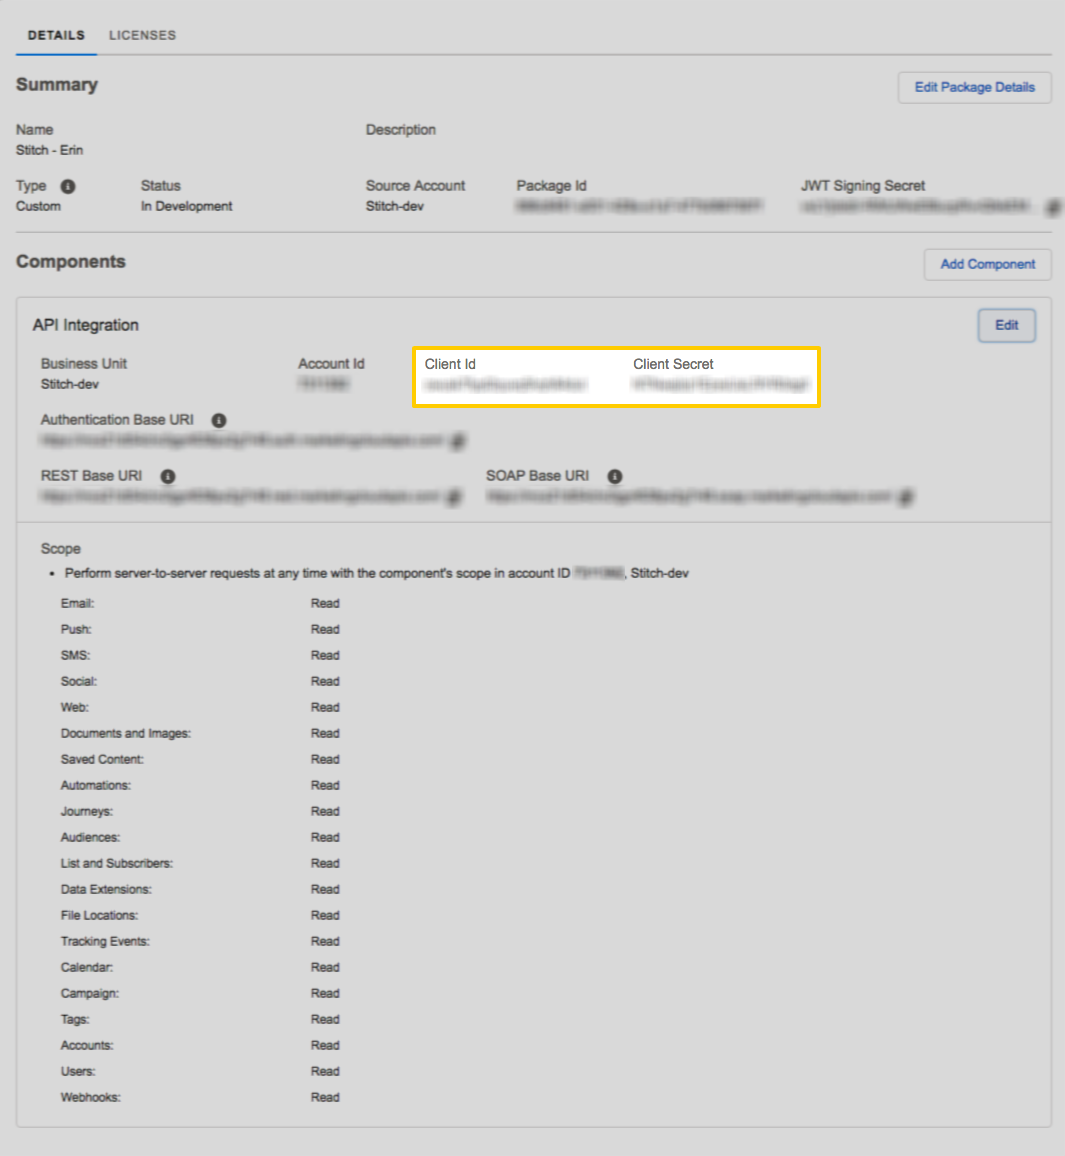
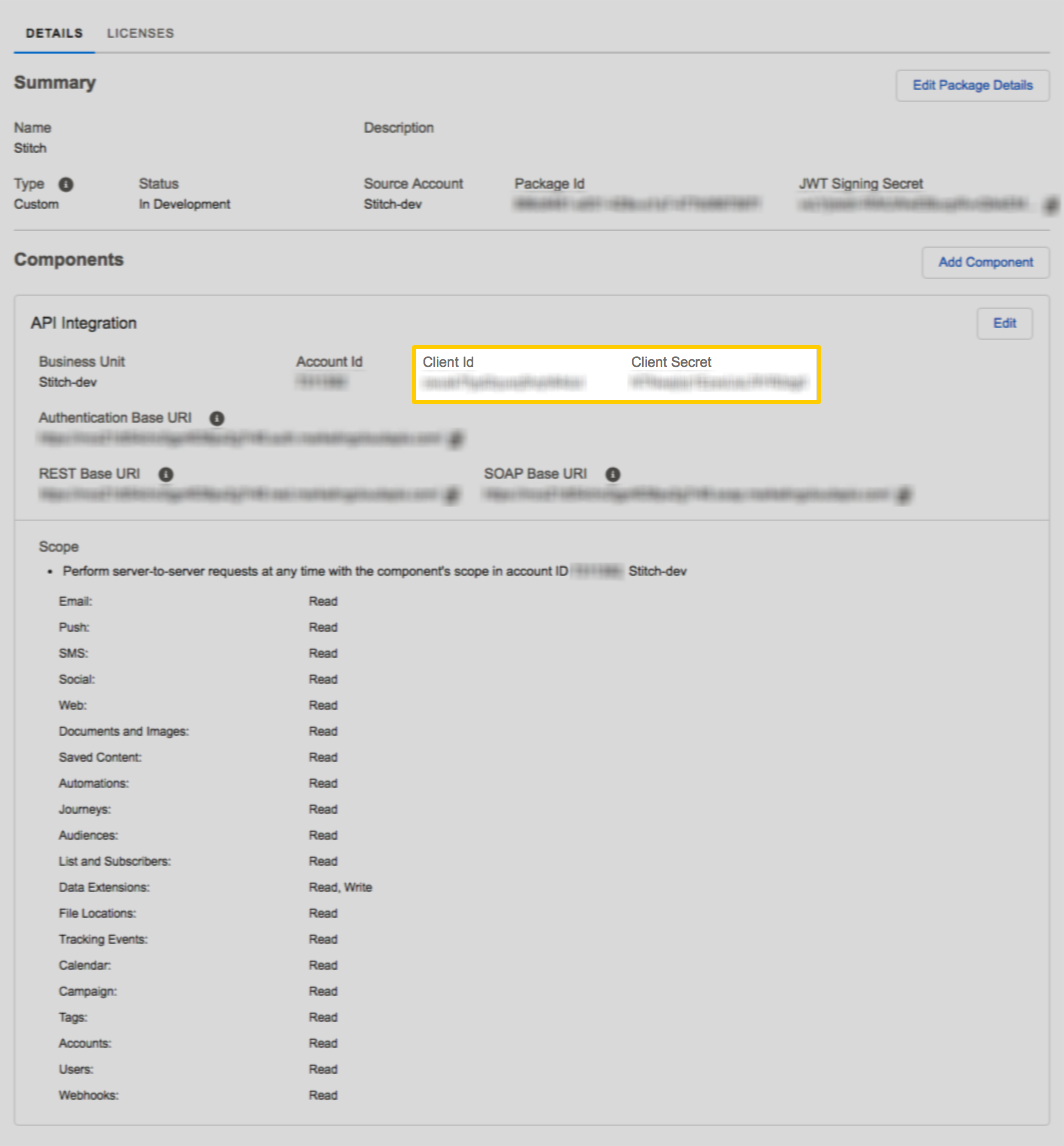
Update required permissions in setup

diff --git a/_saas-integrations/salesforce-marketing-cloud/v1/salesforce-marketing-cloud-v1.md b/_saas-integrations/salesforce-marketing-cloud/v1/salesforce-marketing-cloud-v1.md
@@ -81,7 +81,7 @@ permission-categories:
       - name: "List and Subscribers"
   - name: "Data"
     permissions:
-      - name: "Data Extensions"
+      - name: "Data Extensions (Read/Write)"
       - name: "File Locations"
       - name: "Tracking Events"
   - name: "Hub"
@@ -133,7 +133,7 @@ setup-steps:
           6. Click **Save**.
 
 # https://developer.salesforce.com/docs/atlas.en-us.mc-app-development.meta/mc-app-development/api-integration.htm
-      - title: "Add an API Integration component to the package"
+      - title: "Add an API Integration component to the package and set permissions"
         anchor: "add-api-component-to-package"
         content: |
           After the package has been saved, you'll need to add a component and grant the required permissions. This will allow Stitch to connect to your {{ integration.display_name }} instance.
@@ -142,7 +142,7 @@ setup-steps:
           2. In the **Add Component** window, select the **API Integration** option.
           3. In the **Add API Integration** window, you'll grant permissions to the Stitch app.
 
-             Check the **Read** option next to the options listed below for each category:
+             Unless otherwise noted, select the **Read** permission next to the following options:
 
              <table class="attribute-list">
              {% for category in integration.permission-categories %}
@@ -158,6 +158,9 @@ setup-steps:
              {% cycle 'cat-after': '', '', '', '</tr>' %}
              {% endfor %}
              </table>
+
+             **Note**: To replicate **Data Extension** data, you will also need to select the **Write** permission.
+
           4. Click **Save**.
 
       - title: "Locate your API credentials"
@@ -183,12 +186,6 @@ setup-steps:
 
 # Looking for the table schemas & info?
 # Each table has a its own .md file in /_integration-schemas/salesforce-marketing-cloud
-
-# schema-sections:
-#  - title: ""
-#    anchor: ""
-#    content: |
-
 ---
 {% assign integration = page %}
 {% include misc/data-files.html %}
